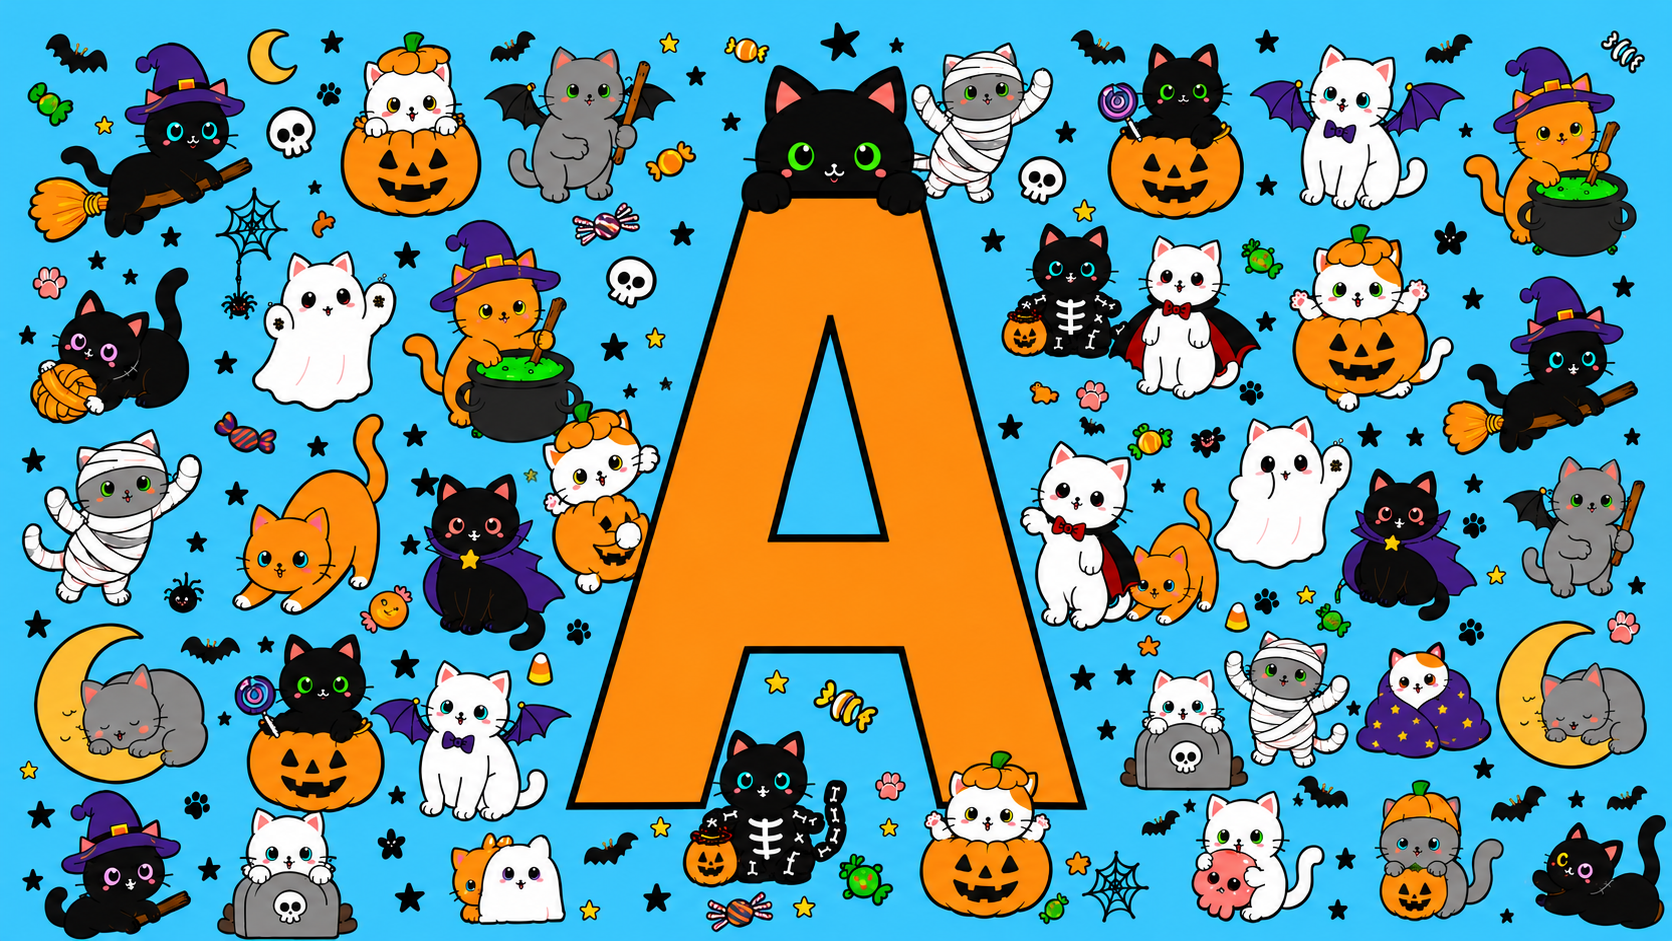
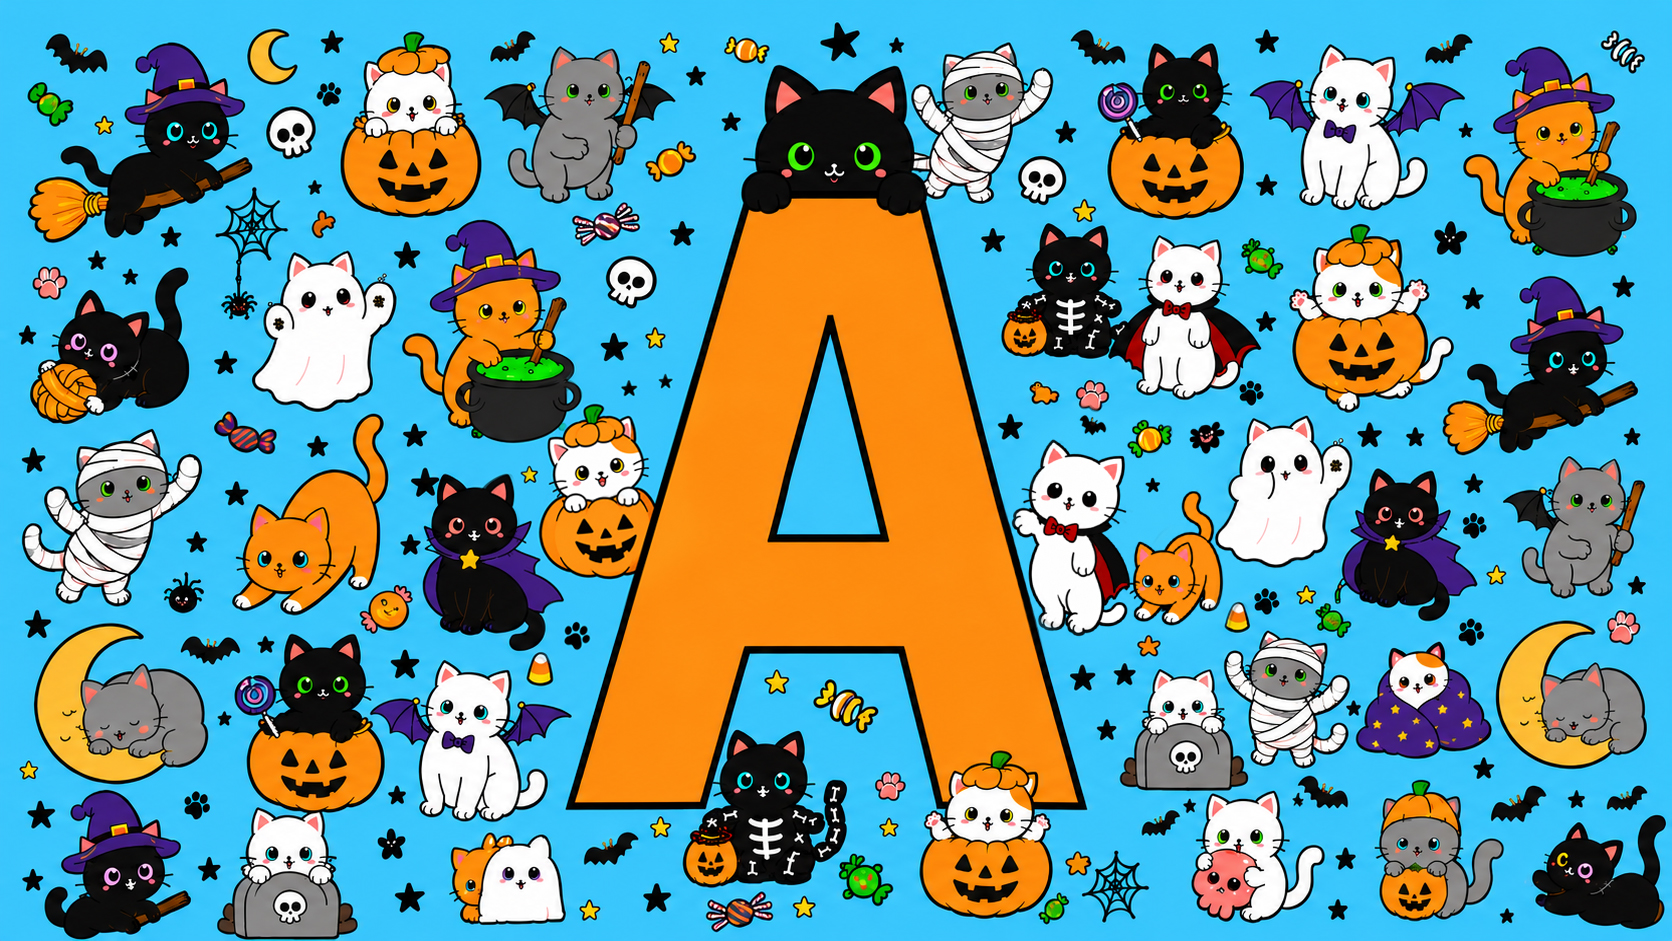
feat: update pet letter reference and comparison

Changed region(s): [[0.5909, 0.4315, 0.7775, 0.678], [0.2799, 0.4006, 0.4043, 0.678]]

diff --git a/src/AiPetLetterStickerComposer.tsx b/src/AiPetLetterStickerComposer.tsx
@@ -3,6 +3,7 @@ import { Alert, App, Button, Card, Checkbox, Collapse, Empty, Image, Input, Moda
 import JSZip from "jszip";
 import { createPortal } from "react-dom";
 import { useCallback, useEffect, useMemo, useRef, useState } from "react";
+import OriginalCompareImage from "./OriginalCompareImage";
 import { editAiPetLetter, AiPetLetterApiError, optimizeAiPetLetterPrompts } from "./services/aiPetLetters/api";
 import { downloadBlob, fingerprintBlob, normalizeReference, resizeForDownload } from "./services/aiPetLetters/image";
 import { createDefaultPrompts, defaultPromptForLetter, promptOptimizerInstruction, validateOptimizedPrompt } from "./services/aiPetLetters/prompts";
@@ -24,9 +25,9 @@ function useBlobUrl(blob?: Blob) {
   return url;
 }
 
-function ResultCover({ blob, letter }: { blob: Blob; letter: string }) {
+function ResultCover({ blob, letter, referenceUrl }: { blob: Blob; letter: string; referenceUrl?: string }) {
   const url = useBlobUrl(blob);
-  return url ? <Image src={url} alt={`${letter} 生成结果`} /> : null;
+  return url ? <OriginalCompareImage src={url} originalSrc={referenceUrl} originalAlt="本次参考图" originalLabel="参考图" alt={`${letter} 生成结果`} /> : null;
 }
 
 function elapsed(start?: number, end?: number) {
@@ -71,12 +72,13 @@ export default function AiPetLetterStickerComposer({ active, settings: globalSet
     return () => clearTimeout(id);
   }, [referenceBlob, settings.cropX, settings.cropY, settings.cropZoom]);
   const currentReferenceFingerprint = useMemo(() => `${referenceFingerprint}:${settings.cropZoom.toFixed(3)}:${settings.cropX.toFixed(3)}:${settings.cropY.toFixed(3)}`, [referenceFingerprint, settings.cropX, settings.cropY, settings.cropZoom]);
+  const referenceCompareUrl = useBlobUrl(normalizedPreviewBlob || referenceBlob);
   const previewTask = tasks.find((item) => item.letter === preview.letter);
   const previewBlob = preview.kind === "reference" ? (normalizedPreviewBlob || referenceBlob) : previewTask?.result?.rawBlob;
   const previewUrl = useBlobUrl(previewBlob);
 
   const loadDefault = useCallback(async () => {
-    const referenceResponse = await fetch(asset("default-reference.png"));
+    const referenceResponse = await fetch(`${asset("default-reference.png")}?v=3`);
     const ref = await referenceResponse.blob();
     setReferenceBlob(ref); setReferenceName("默认 A 字母参考图"); setReferenceFingerprint(await fingerprintBlob(ref));
     setSettings((value) => ({ ...value, cropZoom: 1, cropX: 0, cropY: 0 }));
@@ -94,6 +96,7 @@ export default function AiPetLetterStickerComposer({ active, settings: globalSet
           setRequestCount(restored.reduce((sum, task) => sum + (task.startedAt ? 1 + task.retries : 0), 0));
           setRetryCount(restored.reduce((sum, task) => sum + task.retries, 0));
           setStartedAt(restored.reduce<number | undefined>((min, task) => task.startedAt && (!min || task.startedAt < min) ? task.startedAt : min, undefined));
+          if ((workspace.referenceName || "").startsWith("默认 A 字母参考图")) await loadDefault();
         } else await loadDefault();
       } catch { await loadDefault(); }
       setHydrated(true);
@@ -264,7 +267,7 @@ export default function AiPetLetterStickerComposer({ active, settings: globalSet
       <Collapse items={prompts.map((item) => ({ key: item.letter, label: <Space><Checkbox checked={item.selected} onClick={(event) => event.stopPropagation()} onChange={(event) => setPrompts((items) => items.map((value) => value.letter === item.letter ? { ...value, selected: event.target.checked } : value))} /><Tag color="blue">{item.letter}</Tag><Text type="secondary">{statusLabel(tasks.find((task) => task.letter === item.letter)?.status)}</Text></Space>, children: <><Input.TextArea autoSize={{ minRows: 4, maxRows: 10 }} maxLength={3000} showCount value={item.currentPrompt} onChange={(event) => setPrompts((items) => items.map((value) => value.letter === item.letter ? { ...value, currentPrompt: event.target.value } : value))} /><Space className="ai-pet-prompt-actions"><Button icon={<ReloadOutlined />} onClick={() => setPrompts((items) => items.map((value) => value.letter === item.letter ? { ...value, currentPrompt: defaultPromptForLetter(item.letter) } : value))}>恢复默认</Button><Button loading={item.optimizing} icon={<ThunderboltOutlined />} onClick={() => void optimizeOne(item.letter)}>AI 优化</Button>{tasks.find((task) => task.letter === item.letter)?.status === "running" && <Button danger onClick={() => controllers.current.get(item.letter)?.abort()}>停止此图</Button>}<Button onClick={() => void processLetters([item.letter], true)}>重新生成</Button></Space></> }))} />
     </Card>
     <Card title="生成结果" extra={<Space><Checkbox checked={successful.length > 0 && successful.every((item) => selectedResults.includes(item.letter))} onChange={(event) => setSelectedResults(event.target.checked ? successful.map((item) => item.letter) : [])}>全选已有结果</Checkbox><Button icon={<DownloadOutlined />} onClick={() => void downloadSelected()}>下载所选（{selectedResults.length}）</Button><Button disabled={!tasks.some((task) => task.status === "failed" || task.status === "interrupted")} onClick={() => void processLetters(tasks.filter((task) => task.status === "failed" || task.status === "interrupted").map((task) => task.letter), true)}>重试失败</Button><Popconfirm title="清空所有生成任务和结果？" onConfirm={() => { stop(); setTasks([]); setSelectedResults([]); setPreview({ kind: "reference" }); }}><Button danger icon={<DeleteOutlined />}>清空结果</Button></Popconfirm></Space>}>
-      {tasks.length ? <div className="ai-pet-letter-gallery"><Image.PreviewGroup>{tasks.map((task) => <Card key={`${task.letter}-${task.result?.createdAt || 0}`} size="small" className="ai-pet-letter-result" cover={task.result ? <ResultCover blob={task.result.rawBlob} letter={task.letter} /> : <div className="ai-pet-letter-placeholder"><strong>{task.letter}</strong><span>{task.status === "running" ? "生成中…" : task.error || statusLabel(task.status)}</span></div>} actions={task.result ? [<Button type="text" key="view" onClick={() => setPreview({ kind: "raw", letter: task.letter })}>对比</Button>, <Button type="text" key="download" onClick={() => void downloadTask(task)}>下载</Button>, <Button type="text" key="retry" onClick={() => void processLetters([task.letter], true)}>重生</Button>] : undefined}><Card.Meta title={<Space><Checkbox checked={selectedResults.includes(task.letter)} disabled={!task.result} onChange={(event) => setSelectedResults((items) => event.target.checked ? [...new Set([...items, task.letter])] : items.filter((letter) => letter !== task.letter))} />{task.letter}<Tag color={task.status === "success" ? "success" : task.status === "failed" ? "error" : "default"}>{statusLabel(task.status)}</Tag></Space>} description={task.result && task.result.referenceFingerprint !== currentReferenceFingerprint ? "旧参考图" : task.retries ? `重试 ${task.retries} 次` : ""} /></Card>)}</Image.PreviewGroup></div> : <Empty description="尚未生成；可以先编辑 26 条提示词" />}
+      {tasks.length ? <div className="ai-pet-letter-gallery"><Image.PreviewGroup>{tasks.map((task) => <Card key={`${task.letter}-${task.result?.createdAt || 0}`} size="small" className="ai-pet-letter-result" cover={task.result ? <ResultCover blob={task.result.rawBlob} letter={task.letter} referenceUrl={referenceCompareUrl} /> : <div className="ai-pet-letter-placeholder"><strong>{task.letter}</strong><span>{task.status === "running" ? "生成中…" : task.error || statusLabel(task.status)}</span></div>} actions={task.result ? [<Button type="text" key="view" onClick={() => setPreview({ kind: "raw", letter: task.letter })}>对比</Button>, <Button type="text" key="download" onClick={() => void downloadTask(task)}>下载</Button>, <Button type="text" key="retry" onClick={() => void processLetters([task.letter], true)}>重生</Button>] : undefined}><Card.Meta title={<Space><Checkbox checked={selectedResults.includes(task.letter)} disabled={!task.result} onChange={(event) => setSelectedResults((items) => event.target.checked ? [...new Set([...items, task.letter])] : items.filter((letter) => letter !== task.letter))} />{task.letter}<Tag color={task.status === "success" ? "success" : task.status === "failed" ? "error" : "default"}>{statusLabel(task.status)}</Tag></Space>} description={task.result && task.result.referenceFingerprint !== currentReferenceFingerprint ? "旧参考图" : task.retries ? `重试 ${task.retries} 次` : ""} /></Card>)}</Image.PreviewGroup></div> : <Empty description="尚未生成；可以先编辑 26 条提示词" />}
     </Card>
     {settingsHost ? createPortal(inspector, settingsHost) : null}
     <Modal width={920} title="批量提示词优化对比" open={optimizationDiff.length > 0} onCancel={() => setOptimizationDiff([])} onOk={() => { const byLetter = new Map(optimizationDiff.map((item) => [item.letter, item.after])); setPrompts((items) => items.map((item) => ({ ...item, currentPrompt: byLetter.get(item.letter) || item.currentPrompt }))); setOptimizationDiff([]); }} okText="应用全部">

diff --git a/src/OriginalCompareImage.tsx b/src/OriginalCompareImage.tsx
@@ -5,14 +5,15 @@ import { cloneElement, useState, type ComponentProps, type ReactElement } from '
 interface Props extends Omit<ComponentProps<typeof Image>, 'preview'> {
   originalSrc?: string;
   originalAlt?: string;
+  originalLabel?: string;
 }
 
-export default function OriginalCompareImage({ originalSrc, originalAlt = '原图', ...imageProps }: Props) {
+export default function OriginalCompareImage({ originalSrc, originalAlt = '原图', originalLabel = '原图', ...imageProps }: Props) {
   const [showOriginal, setShowOriginal] = useState(false);
   if (!originalSrc) return <Image {...imageProps} />;
   return <Image {...imageProps} preview={{
     onOpenChange: (open) => { if (!open) setShowOriginal(false); },
-    actionsRender: (originalNode) => <>{originalNode}<Tooltip title={showOriginal ? '查看生成图' : '查看原图'}><button type="button" aria-label={showOriginal ? '查看生成图' : '查看原图'} className={showOriginal ? 'scene-preview-compare-action is-active' : 'scene-preview-compare-action'} onClick={(event) => { event.stopPropagation(); setShowOriginal((current) => !current); }}><EyeOutlined /></button></Tooltip></>,
+    actionsRender: (originalNode) => <>{originalNode}<Tooltip title={showOriginal ? '查看生成图' : `查看${originalLabel}`}><button type="button" aria-label={showOriginal ? '查看生成图' : `查看${originalLabel}`} className={showOriginal ? 'scene-preview-compare-action is-active' : 'scene-preview-compare-action'} onClick={(event) => { event.stopPropagation(); setShowOriginal((current) => !current); }}><EyeOutlined /></button></Tooltip></>,
     imageRender: (originalNode) => showOriginal ? cloneElement(originalNode as ReactElement<{ src?: string; alt?: string }>, { src: originalSrc, alt: originalAlt }) : originalNode,
   }} />;
 }
